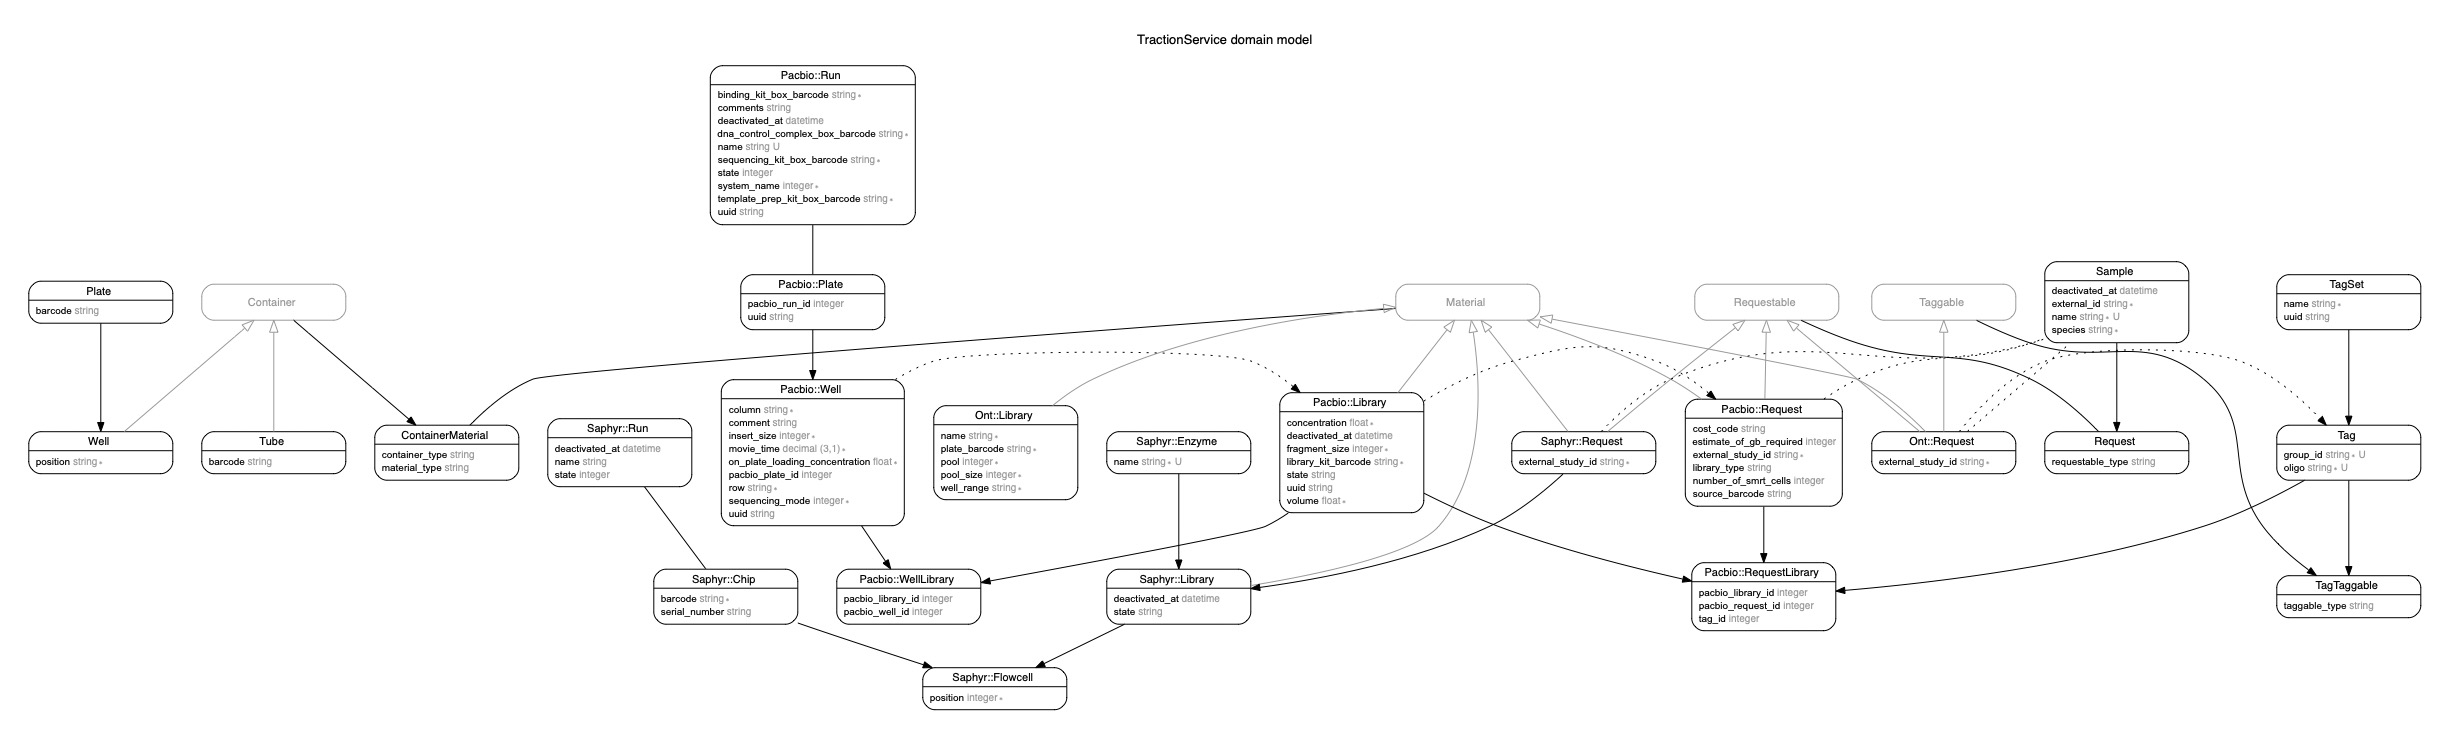
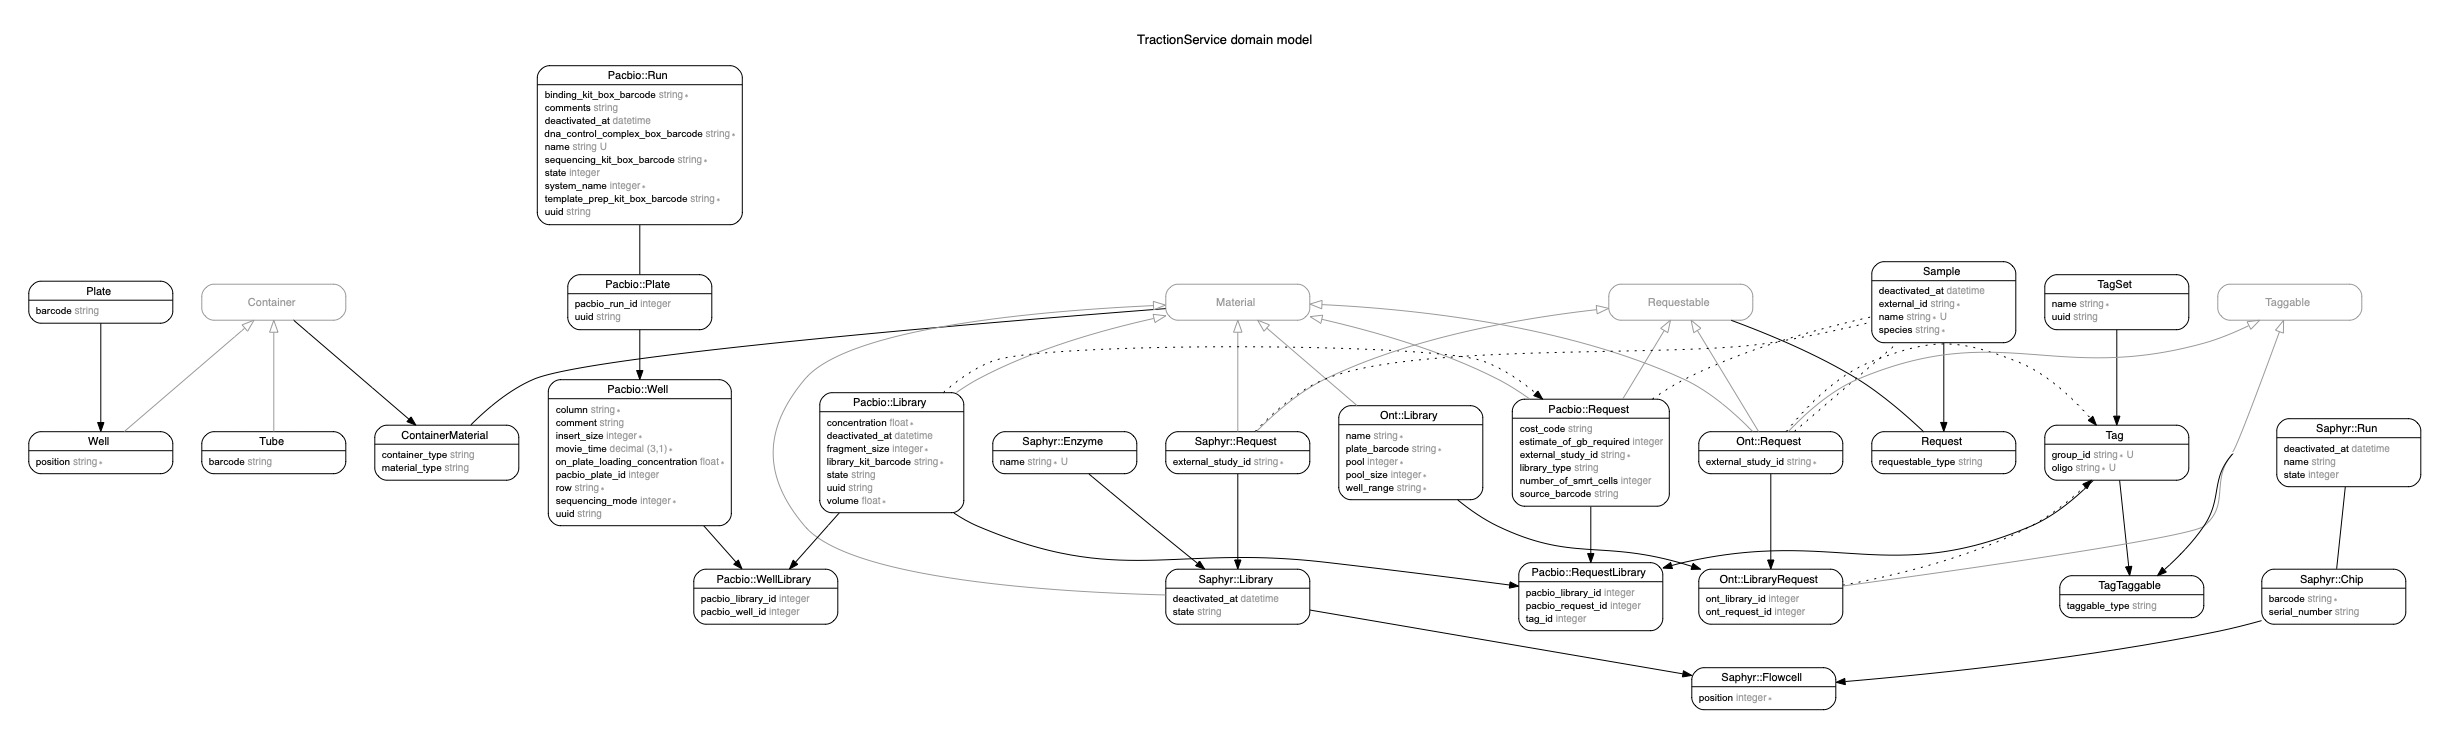
Add Ont::LibraryRequest three-way join application record

diff --git a/db/schema.rb b/db/schema.rb
@@ -10,7 +10,7 @@
 #
 # It's strongly recommended that you check this file into your version control system.
 
-ActiveRecord::Schema.define(version: 2020_05_01_073510) do
+ActiveRecord::Schema.define(version: 2020_05_06_064846) do
 
   create_table "container_materials", force: :cascade do |t|
     t.string "container_type"
@@ -31,6 +31,15 @@ ActiveRecord::Schema.define(version: 2020_05_01_073510) do
     t.integer "pool_size"
     t.datetime "created_at", precision: 6, null: false
     t.datetime "updated_at", precision: 6, null: false
+  end
+
+  create_table "ont_library_requests", force: :cascade do |t|
+    t.integer "ont_library_id"
+    t.integer "ont_request_id"
+    t.datetime "created_at", precision: 6, null: false
+    t.datetime "updated_at", precision: 6, null: false
+    t.index ["ont_library_id"], name: "index_ont_library_requests_on_ont_library_id"
+    t.index ["ont_request_id"], name: "index_ont_library_requests_on_ont_request_id"
   end
 
   create_table "ont_requests", force: :cascade do |t|

diff --git a/app/models/ont/request.rb b/app/models/ont/request.rb
@@ -6,11 +6,9 @@ module Ont
     include Material
     include Taggable
 
-    # belongs_to :library, class_name: 'Ont::Library', foreign_key: :ont_library_id,
-    #                      inverse_of: :requests, optional: true
-
     has_one :request, class_name: '::Request', as: :requestable, dependent: :nullify
     has_one :sample, through: :request
+    has_many :library_requests, foreign_key: :ont_request_id, inverse_of: :request, dependent: :destroy
 
     validates :external_study_id, presence: true
 

diff --git a/app/models/ont/library.rb b/app/models/ont/library.rb
@@ -5,7 +5,7 @@ module Ont
   class Library < ApplicationRecord
     include Material
 
-    # has_many :requests, foreign_key: :ont_library_id, inverse_of: :library, dependent: :destroy
+    has_many :library_requests, foreign_key: :ont_library_id, inverse_of: :library, dependent: :destroy
 
     validates :name, :plate_barcode, :pool, :well_range, :pool_size, presence: true
 

diff --git a/app/models/ont/library_request.rb b/app/models/ont/library_request.rb
@@ -1,0 +1,11 @@
+# frozen_string_literal: true
+
+module Ont
+  # Ont::LibraryRequest
+  class LibraryRequest < ApplicationRecord
+    include Taggable
+
+    belongs_to :library, foreign_key: :ont_library_id, inverse_of: :library_requests, dependent: :destroy
+    belongs_to :request, foreign_key: :ont_request_id, inverse_of: :library_requests
+  end
+end

diff --git a/db/migrate/20200506064846_create_ont_library_request.rb b/db/migrate/20200506064846_create_ont_library_request.rb
@@ -1,0 +1,9 @@
+class CreateOntLibraryRequest < ActiveRecord::Migration[6.0]
+  def change
+    create_table :ont_library_requests do |t|
+      t.belongs_to :ont_library, index: true
+      t.belongs_to :ont_request, index: true
+      t.timestamps
+    end
+  end
+end
